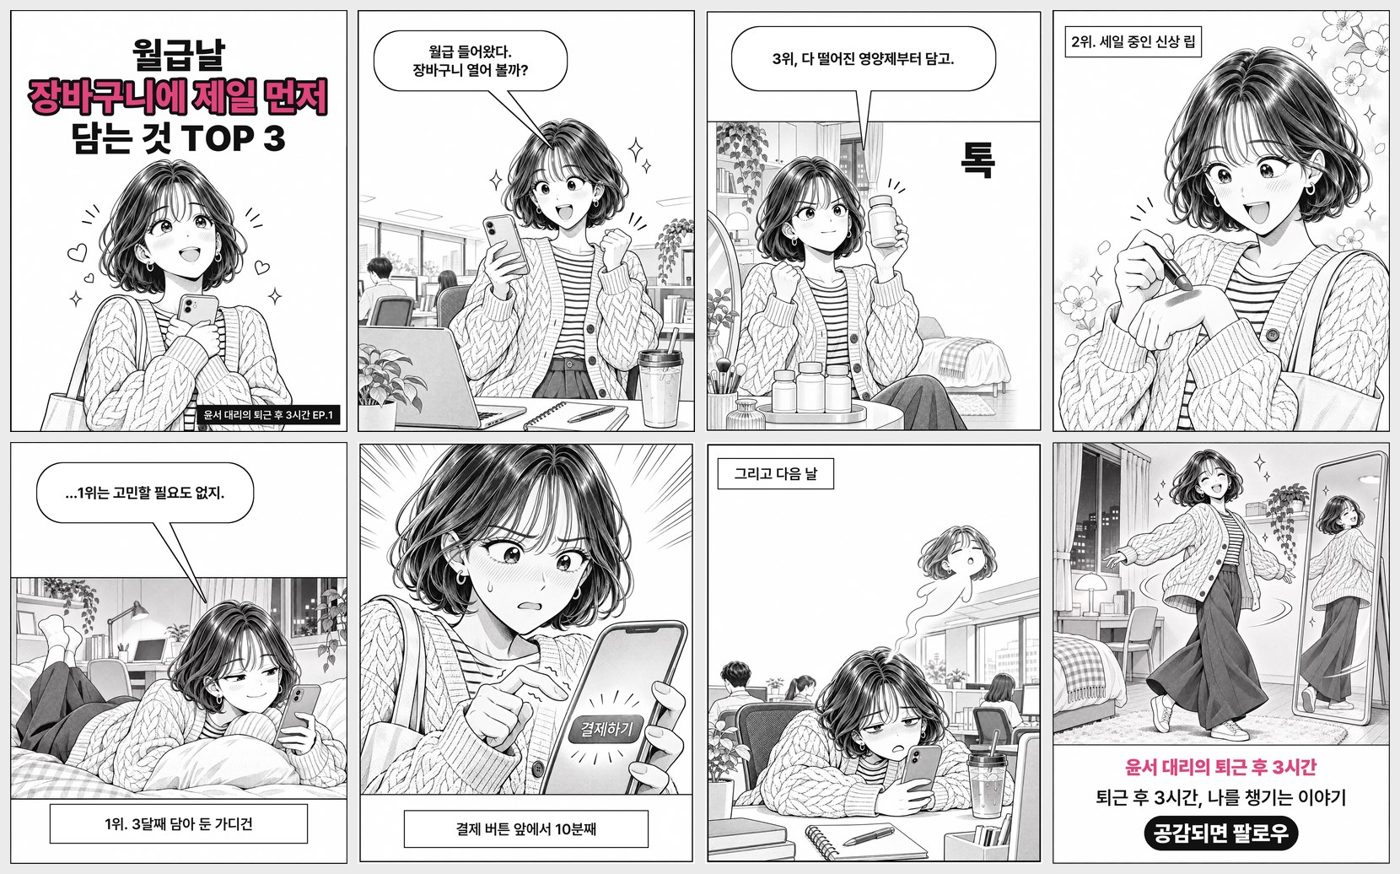
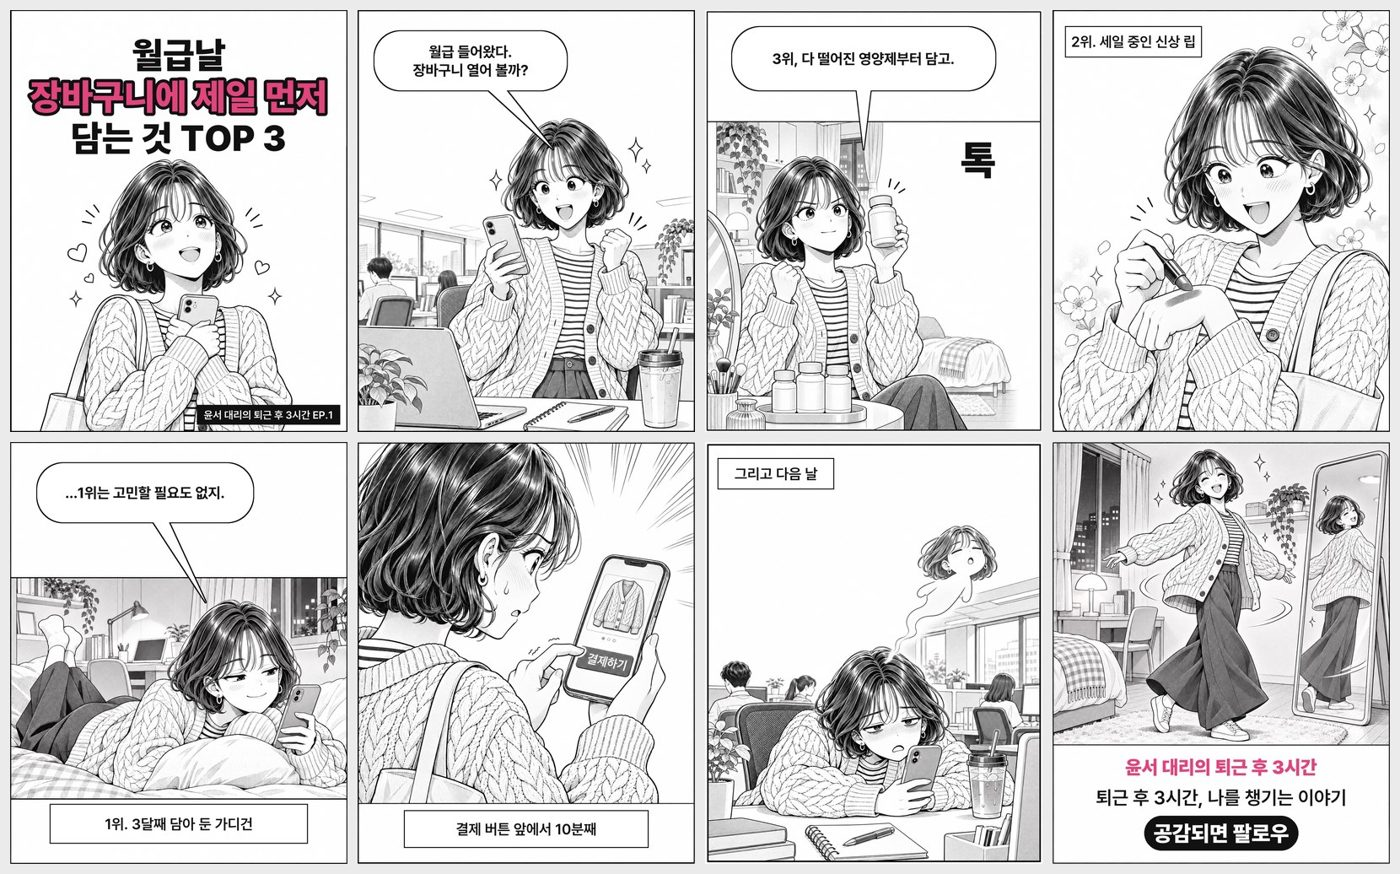
예제 6장 시선·화면 방향 수정, 화면 보는 장면 규칙 추가

Changed region(s): [[0.2457, 0.4943, 0.5221, 0.9268], [0.2457, 0.9577, 0.5221, 0.9886]]

diff --git a/references/qa-checklist.md b/references/qa-checklist.md
@@ -17,6 +17,7 @@ toon qa 는 자동 검사와 "시각 점검 필요" 목록을 함께 낸다. 자
 자동 검사는 그림의 내용을 보지 못한다. 아래는 전부 눈으로 본다.
 
 1. **캐릭터 속성**: character.json 의 check_attributes(예: 단발 웨이브, 링 귀걸이, 니트 가디건, 토트백)가 그림에 있고 시트와 같은가. 얼굴 비율·머리 모양이 장마다 흔들리지 않는가.
+- **시선과 화면 방향**: 인물이 휴대폰·노트북·모니터를 보는 장면에서 화면이 인물 쪽을 향하는가. 화면 내용(버튼, 사진)이 독자에게 보이는데 인물 얼굴도 정면이면 물리적으로 불가능한 구도다. 화면 내용을 보여 줘야 하면 장면 문구를 어깨 너머 시점(over-the-shoulder, 인물 뒤에서 화면과 옆얼굴이 함께 보이게)으로 쓰고, 표정을 보여 줘야 하면 화면을 독자 반대쪽으로 돌린다(screen faces away from viewer).
 2. **로고·브랜드**: 옷, 노트북, 화면, 간판, 컵에 로고나 상표 모양이 없는가. 있으면 재생성.
 3. **목록 밖 글자**: in_image_text 에 없는 글자(간판, 화면, 책 표지, 의미 없는 가짜 글자 포함)가 그림에 없는가. 목록에 있는 글자는 철자가 정확한가.
 4. **실존 인물**: 실존 인물이나 유명인을 닮은 얼굴이 없는가.
